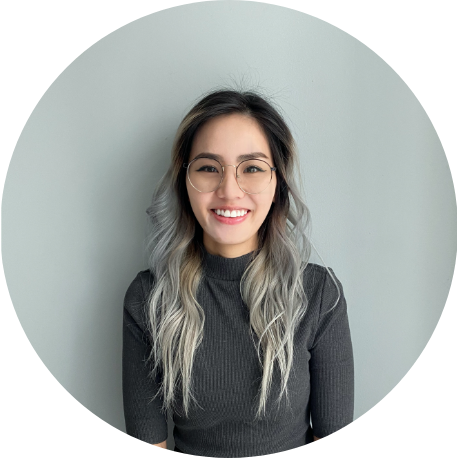
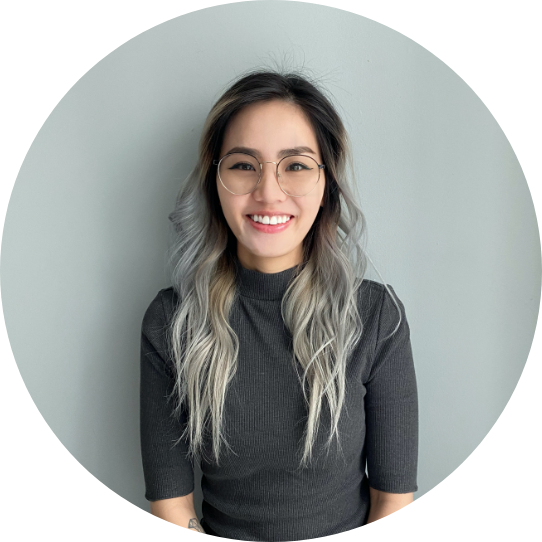
about homepage

Changed region(s): [[0.2445, 0.1223, 0.7948, 1.0], [0.7642, 0.7031, 0.7948, 0.7642], [0.4891, 0.8559, 0.5197, 0.8865]]

diff --git a/src/index.css b/src/index.css
@@ -6,7 +6,7 @@
 }
 
 :root {
-  --primary: ;
+  --primary: #333;
   --secondary: #F5DF4D;
   --tertiary: ;
   --hero: #BCBCBC;
@@ -41,6 +41,7 @@ h2 {
   font-family: 'Playfair Display', serif;
   font-weight: normal;
   font-size: calc(20px + 1vw);
+  margin: 0;
 }
 
 h3  {
@@ -162,6 +163,42 @@ a:hover {
 a:active, a:focus {
   outline: none;
 }
+
+.link {
+  cursor: pointer;
+  color: var(--primary);
+  display: block;
+  text-decoration: none;
+  position: relative;
+  width: fit-content;
+  border-bottom: 4px solid var(--secondary);
+  padding-bottom: 5px;
+  font-family: 'Lato', serif;
+  font-size: 1em;
+}
+
+.link:hover {
+  color: var(--primary);
+}
+
+.link:after {
+  content: "";
+  background: var(--secondary);
+  mix-blend-mode: normal;
+  width: calc(100% + 20px);
+  height: 0;
+  position: absolute;
+  bottom: -4px;
+  left: -10px;
+  z-index: -1;
+  transition: all .3s cubic-bezier(0.445, 0.05, 0.55, 0.95);
+}
+
+.link:hover::after {
+  height: calc(100% + 8px);
+  color: var(--primary);
+}
+
 
 /*LOGO sliced button*/
 #navigation {
@@ -321,6 +358,44 @@ transition-timing-function: cubic-bezier(0.890, -0.170, 0.140, 1.225); /* custom
   color: white;
 }
 
+/*------------------------------- ABOUT -------------------------------*/
+#profile {
+  display: flex;
+  flex-direction: row;
+  justify-content: center;
+  align-items: center;
+  margin: 10vh 20% 10vh 20%;
+}
+
+#profile > div:not(:first-child) {
+  margin-left: 5vh;
+}
+
+.profileimg {
+  display: flex;
+  justify-content: center;
+  align-items: center;
+}
+
+.profileimg img {
+  width: 80%;
+  height: 80%;
+  min-width: 200px;
+}
+
+.aboutme {
+  display: flex;
+  flex-direction: column;
+  justify-content: center;
+  width: 60%;
+}
+
+.aboutme-child {
+  display: flex;
+  gap: 50px;
+  
+}
+
 /*------------------------------- FOOTER -------------------------------*/
 footer {
   width: 100%;
@@ -366,4 +441,10 @@ transition: all .3s cubic-bezier(0.445, 0.05, 0.55, 0.95);
 .copyright {
   font-size: 0.6em;
   font-weight: lighter;
+}
+
+@media (max-width: 980px) {
+  footer {
+      margin-top: 5vh;
+  }
 }

diff --git a/src/components/HomeAbout/index.js b/src/components/HomeAbout/index.js
@@ -1,0 +1,22 @@
+import React from "react";
+
+function HomeAbout() {
+    return (
+        <section id="profile">
+
+            <div className="aboutme">
+                    <h2>Creating a good product experience is like telling a good story.</h2>
+                    <p>We have to pay attention to the details, but not lose sight of the power of the entire narrative. Great experience design takes into account all of the touch-points one has with a product or service, intertwining a story together so compelling that it demands to be shared and retold. Through the practice of holistic, thoughtful UX design and the execution of beautiful UI elements, together we can create soulful solutions that will tell your story in a new way.</p>
+                    <div className="aboutme-child">
+                        <a className="link" href="#about">More About Me</a>
+                        <a className="link" href="#project">My Projects</a>
+                    </div>
+            </div>
+            <div className="profileimg">
+                <img src={require('../../assets/images/profile.png').default} alt="profile" />
+            </div>
+        </section>
+    )
+}
+
+export default HomeAbout;

diff --git a/src/components/Home/index.js b/src/components/Home/index.js
@@ -1,8 +1,10 @@
 import React from 'react';
 import Header from '../Header';
+import HomeAbout from '../HomeAbout';
 
 function Home() {
     return (
+    <div>
         <div className="hero-background">
             <div className="hero-text">
                 <p>Lisa Le - Full Stack Developer</p>
@@ -13,6 +15,8 @@ function Home() {
             </div>
         <Header/>
         </div>
+        <HomeAbout/>
+    </div>
     )
 }
 

diff --git a/src/App.js b/src/App.js
@@ -14,7 +14,6 @@ function App() {
       {!homeState && <Header/>}
 
       <main>
-        -- ABOUT - when selected display more info
         -- PORTFOLIO - when selected, display more info
         -- CONTACT FORM - display if selected
       </main>
